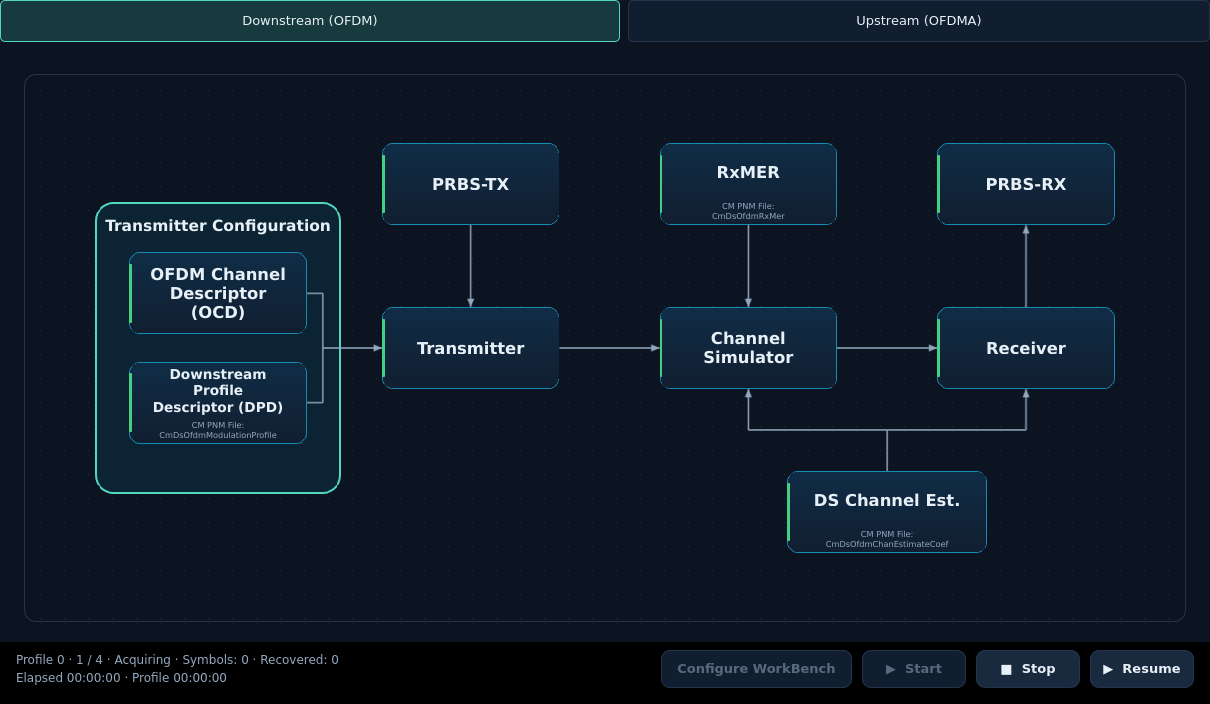
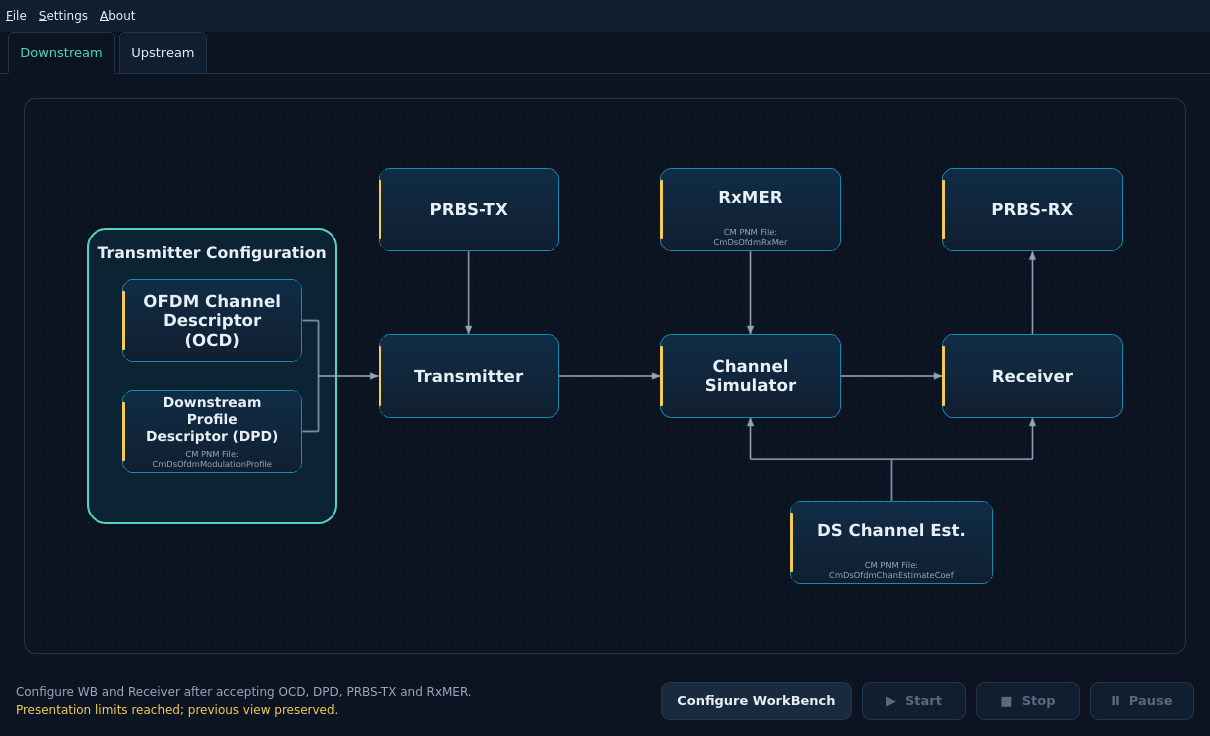
BugFix: Use folder-style direction tabs - Label pages Downstream and Upstream. - Preserve focus, state and connected page edges. - Tests: QML shell, Clippy, native UI and docs.

diff --git a/apps/qt/qml/shell/directions/PersistentDirectionTabs.qml b/apps/qt/qml/shell/directions/PersistentDirectionTabs.qml
@@ -20,6 +20,7 @@ FocusScope {
     readonly property string upstreamDirection: "upstream"
     // Presentation spacing/typography, independent of all scientific limits.
     readonly property int frameSpacing: 8
+    readonly property int tabSpacing: 4
     readonly property int tabPadding: 12
     readonly property int tabHeight: 42
     readonly property int labelPixelSize: 13
@@ -265,62 +266,96 @@ FocusScope {
     ColumnLayout {
         id: content
         anchors.fill: parent
-        spacing: root.frameSpacing
-        RowLayout {
-            id: tabRow
+        spacing: 0
+        Item {
+            id: tabStrip
+            objectName: "directionTabStrip"
             Layout.fillWidth: true
-            spacing: root.frameSpacing
-            Repeater {
-                model: [root.downstreamDirection, root.upstreamDirection]
-                delegate: TabButton {
-                    id: tab
-                    required property string modelData
-                    readonly property bool selected: root.selectedDirection === modelData
-                    objectName: modelData + "DirectionTab"
-                    Layout.fillWidth: true
-                    implicitHeight: Math.max(root.tabHeight,
-                        contentItem.implicitHeight + topPadding + bottomPadding)
-                    leftPadding: root.tabPadding
-                    rightPadding: root.tabPadding
-                    font.pixelSize: root.labelPixelSize
-                    focusPolicy: Qt.StrongFocus
-                    autoExclusive: false
-                    checked: selected
-                    text: modelData === root.downstreamDirection
-                        ? "Downstream (OFDM)" : "Upstream (OFDMA)"
-                    Accessible.name: text
-                    ThemePalette { targetControl: tab; theme: root.theme }
-                    onClicked: {
-                        root.requestDirection(modelData)
-                        // The host may accept asynchronously or decline selection.
-                        checked = Qt.binding(function() { return tab.selected })
-                    }
-                    Keys.onLeftPressed: function(event) {
-                        root.requestDirection(root.downstreamDirection)
-                        event.accepted = true
-                    }
-                    Keys.onRightPressed: function(event) {
-                        root.requestDirection(root.upstreamDirection)
-                        event.accepted = true
-                    }
-                    background: Rectangle {
-                        radius: root.tabCornerRadius
-                        color: tab.selected ? root.theme.accentSoft
-                            : tab.hovered ? root.theme.button : root.theme.panel
-                        border.width: tab.visualFocus
-                            ? root.focusedBorderWidth : root.normalBorderWidth
-                        border.color: tab.visualFocus || tab.selected
-                            ? root.theme.accent : root.theme.line
-                    }
-                    contentItem: Label {
-                        text: tab.text
-                        font: tab.font
-                        color: root.theme.text
-                        wrapMode: Text.WordWrap
-                        horizontalAlignment: Text.AlignHCenter
-                        verticalAlignment: Text.AlignVCenter
+            implicitHeight: tabRow.implicitHeight
+            Rectangle {
+                objectName: "directionTabBaseline"
+                anchors.left: parent.left
+                anchors.right: parent.right
+                anchors.bottom: parent.bottom
+                height: root.normalBorderWidth
+                color: root.theme.line
+            }
+            RowLayout {
+                id: tabRow
+                anchors.fill: parent
+                anchors.leftMargin: root.frameSpacing
+                anchors.rightMargin: root.frameSpacing
+                spacing: root.tabSpacing
+                Repeater {
+                    model: [root.downstreamDirection, root.upstreamDirection]
+                    delegate: TabButton {
+                        id: tab
+                        required property string modelData
+                        readonly property bool selected: root.selectedDirection === modelData
+                        objectName: modelData + "DirectionTab"
+                        Layout.fillWidth: true
+                        Layout.minimumWidth: 0
+                        Layout.maximumWidth: implicitWidth
+
+                        // Prevent whole-pixel layout rounding from clipping fractional font widths.
+                        implicitWidth: Math.ceil(contentItem.implicitWidth) + leftPadding + rightPadding
+                        implicitHeight: Math.max(root.tabHeight,
+                            contentItem.implicitHeight + topPadding + bottomPadding)
+                        leftPadding: root.tabPadding
+                        rightPadding: root.tabPadding
+                        font.pixelSize: root.labelPixelSize
+                        focusPolicy: Qt.StrongFocus
+                        autoExclusive: false
+                        checked: selected
+                        text: modelData === root.downstreamDirection
+                            ? "Downstream" : "Upstream"
+                        Accessible.name: text
+                        ThemePalette { targetControl: tab; theme: root.theme }
+                        onClicked: {
+                            root.requestDirection(modelData)
+                            // The host may accept asynchronously or decline selection.
+                            checked = Qt.binding(function() { return tab.selected })
+                        }
+                        Keys.onLeftPressed: function(event) {
+                            root.requestDirection(root.downstreamDirection)
+                            event.accepted = true
+                        }
+                        Keys.onRightPressed: function(event) {
+                            root.requestDirection(root.upstreamDirection)
+                            event.accepted = true
+                        }
+                        background: Rectangle {
+                            objectName: tab.modelData + "DirectionTabSurface"
+                            topLeftRadius: root.tabCornerRadius
+                            topRightRadius: root.tabCornerRadius
+                            color: tab.selected ? root.theme.background
+                                : tab.hovered ? root.theme.button : root.theme.panel
+                            border.width: tab.visualFocus
+                                ? root.focusedBorderWidth : root.normalBorderWidth
+                            border.color: tab.visualFocus
+                                ? root.theme.accent : root.theme.line
+                            Rectangle {
+                                objectName: tab.modelData + "DirectionTabJoin"
+                                anchors.left: parent.left
+                                anchors.right: parent.right
+                                anchors.bottom: parent.bottom
+                                height: parent.border.width
+                                visible: tab.selected
+                                color: parent.color
+                            }
+                        }
+                        contentItem: Label {
+                            text: tab.text
+                            font: tab.font
+                            color: tab.selected ? root.theme.accent : root.theme.text
+                            wrapMode: Text.NoWrap
+                            elide: Text.ElideRight
+                            horizontalAlignment: Text.AlignHCenter
+                            verticalAlignment: Text.AlignVCenter
+                        }
                     }
                 }
+                Item { Layout.fillWidth: true }
             }
         }
         Label {
@@ -328,6 +363,7 @@ FocusScope {
             Layout.fillWidth: true
             Layout.leftMargin: root.frameSpacing
             Layout.rightMargin: root.frameSpacing
+            Layout.topMargin: root.frameSpacing
             visible: root.otherDirectionActive && text.length > 0
             text: root.executionStatus
             color: root.theme.statusAttention
@@ -339,6 +375,7 @@ FocusScope {
             Layout.fillWidth: true
             Layout.leftMargin: root.frameSpacing
             Layout.rightMargin: root.frameSpacing
+            Layout.topMargin: root.frameSpacing
             visible: text.length > 0
             text: root.feedbackMessage
             color: root.feedbackIsError ? root.theme.statusError : root.theme.muted

diff --git a/apps/qt/tests/shell/tst_direction_tabs.qml b/apps/qt/tests/shell/tst_direction_tabs.qml
@@ -362,6 +362,30 @@ Item {
                     const rendered = grabImage(shell)
                     const sample = downstream.mapToItem(shell, 2, 2)
                     compare(rendered.pixel(Math.round(sample.x), Math.round(sample.y)), testTheme.panel)
+                    const downstreamTab = findChild(shell, "downstreamDirectionTab")
+                    const upstreamTab = findChild(shell, "upstreamDirectionTab")
+                    verify(downstreamTab.width + upstreamTab.width < shell.width)
+                    for (const direction of ["downstream", "upstream"]) {
+                        selectWithPointer(shell, direction)
+                        const selectedTab = findChild(shell, direction + "DirectionTab")
+                        const inactiveTab = direction === "downstream" ? upstreamTab : downstreamTab
+                        compare(selectedTab.contentItem.lineCount, 1)
+                        verify(!selectedTab.contentItem.truncated,
+                            direction + " label clipped at viewport " + width
+                            + ": tab=" + selectedTab.width
+                            + ", text=" + selectedTab.contentItem.implicitWidth)
+                        const image = grabImage(shell)
+
+                        // Sample the shared edge inside and outside the selected folder.
+                        const joined = selectedTab.mapToItem(shell,
+                            selectedTab.width / 2, selectedTab.height - shell.normalBorderWidth)
+                        const separated = inactiveTab.mapToItem(shell,
+                            inactiveTab.width / 2, inactiveTab.height - shell.normalBorderWidth)
+                        compare(image.pixel(Math.floor(joined.x), Math.floor(joined.y)),
+                            testTheme.background)
+                        compare(image.pixel(Math.floor(separated.x), Math.floor(separated.y)),
+                            testTheme.line)
+                    }
                     if (width === window.narrowWidth) {
                         grabImage(shell).save("tabs-"
                             + (dark ? "dark" : "light") + "-narrow.png")

diff --git a/docs/requirements.md b/docs/requirements.md
@@ -2342,7 +2342,7 @@ Acceptance cells are required tests, not reports of execution. See the
 | <a id="req-uiu-02"></a>**REQ-UIU-02**: All Qt scientific operations SHALL use typed validated public operations through the merlin facade; independently validate and commit each missing API extension before its Qt consumer. | [Architecture](architecture.md#unified-qt-public-api-boundary); Facade, both PHY API modules, native input adapter and Qt dependencies. [File/API map](development/features/unified-qt-workbench/api-gap-matrix.md). | [UIU-BOUND-01](development/checklist.md#task-uiu-bound-01), [UIU-API-01](development/checklist.md#task-uiu-api-01), [UIU-API-02](development/checklist.md#task-uiu-api-02), [UIU-API-03](development/checklist.md#task-uiu-api-03), [UIU-API-04](development/checklist.md#task-uiu-api-04), [UIU-API-05](development/checklist.md#task-uiu-api-05), [UIU-DS-01](development/checklist.md#task-uiu-ds-01); [UIU-QA-01](development/checklist.md#task-uiu-qa-01). | Cargo/source boundary checks including aliases; no final legacy scientific entries; API and compatibility evidence. [Controlled worker evidence](development/features/unified-qt-workbench/validation.md#uiu-ds-01-controlled-worker-facade-accepted). [Receiver/dependency exit evidence](development/features/unified-qt-workbench/validation.md#uiu-ds-01-receiver-public-api-and-dependency-exit). |
 | <a id="req-uiu-03"></a>**REQ-UIU-03**: Keep direction-specific QObject/adapters thin; backend owns scientific configuration, admission, execution and results; no duplicate Qt science interface. | [Architecture](architecture.md#unified-qt-public-api-boundary); Qt bridge plus proposed direction adapters; existing backend owners. [File/API map](development/features/unified-qt-workbench/api-gap-matrix.md). | [UIU-BOUND-01](development/checklist.md#task-uiu-bound-01), [UIU-DS-01](development/checklist.md#task-uiu-ds-01), [UIU-SESSION-01](development/checklist.md#task-uiu-session-01), [UIU-US-02](development/checklist.md#task-uiu-us-02); [UIU-QA-01](development/checklist.md#task-uiu-qa-01). | Review call/data ownership and test request/error/progress/result mapping without private engine access. [Explicit session ownership design](development/features/unified-qt-workbench/design.md#uiu-session-01-explicit-ownership-foundation); [explicit context consumer evidence](development/features/unified-qt-workbench/validation.md#uiu-session-01-explicit-downstream-context-migration); [actual upstream controller evidence](development/features/unified-qt-workbench/validation.md#uiu-session-01-actual-upstream-controller-preparation). [Upstream QObject consumer evidence](development/features/unified-qt-workbench/validation.md#uiu-session-01-upstream-qobject-and-background-preparation). [Integrated SESSION acceptance](development/features/unified-qt-workbench/validation.md#uiu-session-01-integrated-acceptance). |
 | <a id="req-uiu-04"></a>**REQ-UIU-04**: Retain one native executable/QML module and bridge-directory constraint; migrate files by responsibility with explicit registration and preserved notices. | [Architecture](architecture.md#unified-qt-source-ownership); apps/qt/build.rs, src/bridge, QML/module/resource paths. [File/API map](development/features/unified-qt-workbench/api-gap-matrix.md). | [UIU-PLAN-01](development/checklist.md#task-uiu-plan-01), [UIU-ORG-01](development/checklist.md#task-uiu-org-01), [UIU-DS-01](development/checklist.md#task-uiu-ds-01); [UIU-QA-01](development/checklist.md#task-uiu-qa-01). | All sources registered once, imports/resources resolve, native launch and Qt regressions pass. |
-| <a id="req-uiu-05"></a>**REQ-UIU-05**: Provide persistent Downstream (OFDM) and Upstream (OFDMA) tabs below the shared menu; retain File/Settings/About/update actions and remove the large internal canvas title. | [Architecture](architecture.md#unified-qt-session-and-file-lifecycle); Shared shell and persistent direction workbenches. [File/API map](development/features/unified-qt-workbench/api-gap-matrix.md). | [UIU-SHELL-01](development/checklist.md#task-uiu-shell-01); [UIU-QA-01](development/checklist.md#task-uiu-qa-01). | Tab/menu/focus/branding layout checks; application branding and existing downstream actions retained. [SHELL consumer acceptance](development/features/unified-qt-workbench/validation.md#uiu-shell-01-persistent-tabs-and-scoped-actions). |
+| <a id="req-uiu-05"></a>**REQ-UIU-05**: Provide persistent Downstream and Upstream folder-style tabs below the shared menu, sized to their labels with a shared baseline and the selected tab visually joined to its page; retain File/Settings/About/update actions and remove the large internal canvas title. | [Architecture](architecture.md#unified-qt-session-and-file-lifecycle); Shared shell and persistent direction workbenches. [File/API map](development/features/unified-qt-workbench/api-gap-matrix.md). | [UIU-SHELL-01](development/checklist.md#task-uiu-shell-01); [UIU-QA-01](development/checklist.md#task-uiu-qa-01); [UI-TABS-01](development/checklist.md#task-ui-tabs-01). | Tab/menu/focus/branding layout checks; application branding and existing downstream actions retained. [SHELL consumer acceptance](development/features/unified-qt-workbench/validation.md#uiu-shell-01-persistent-tabs-and-scoped-actions). [Folder-tab refinement](development/features/unified-qt-workbench/design.md#ui-tabs-01-folder-style-direction-tabs) requires rendered shape/seam checks in both themes and narrow layouts. |
 | <a id="req-uiu-06"></a>**REQ-UIU-06**: Each direction SHALL retain independent session/configuration/input/result/selection/path/dirty state. Initially admit one active run globally, including paused runs; switching tabs preserves work. | [Architecture](architecture.md#unified-qt-session-and-file-lifecycle); Canonical direction sessions and shared dispatch admission. [File/API map](development/features/unified-qt-workbench/api-gap-matrix.md). | [UIU-SESSION-01](development/checklist.md#task-uiu-session-01), [UIU-SHELL-01](development/checklist.md#task-uiu-shell-01); [UIU-QA-01](development/checklist.md#task-uiu-qa-01). | Two populated tabs, rejected second Start, stale callback/generation isolation, controls scoped to selected session; later concurrent scheduling needs aggregate limits. [Explicit session ownership design](development/features/unified-qt-workbench/design.md#uiu-session-01-explicit-ownership-foundation); [explicit context consumer evidence](development/features/unified-qt-workbench/validation.md#uiu-session-01-explicit-downstream-context-migration); [actual upstream controller evidence](development/features/unified-qt-workbench/validation.md#uiu-session-01-actual-upstream-controller-preparation). [Upstream QObject consumer evidence](development/features/unified-qt-workbench/validation.md#uiu-session-01-upstream-qobject-and-background-preparation). [Integrated SESSION acceptance](development/features/unified-qt-workbench/validation.md#uiu-session-01-integrated-acceptance). [SHELL consumer acceptance](development/features/unified-qt-workbench/validation.md#uiu-shell-01-persistent-tabs-and-scoped-actions). |
 | <a id="req-uiu-07"></a>**REQ-UIU-07**: Run without blocking Qt; preserve direction-specific pause/progress/cancel/partial-result semantics and finite execution/retention/aggregate resource bounds. Aggregate retention SHALL independently bound payload bytes (including requested capacity and cached/shared data), ordered-container entries and shared allocation roots before production/copy; bytes explicitly exclude allocator/tree-node/refcount bookkeeping and are not total heap or RSS. Simultaneous retained copy source/target and candidate owners SHALL remain charged; temporary backend construction and numerical scratch SHALL have separate finite execution limits, without an aggregate scratch-byte/RSS claim. Persistent QML SHALL bound logical UTF-16 bytes, array/object entries and open/retained views while Rust retains actual-capacity accounting. Standard channels SHALL charge message data and explicit channel/slot counts, excluding private synchronization bookkeeping. | [Architecture](architecture.md#unified-qt-session-and-file-lifecycle); DS/US public job APIs and direction worker adapters. [File/API map](development/features/unified-qt-workbench/api-gap-matrix.md). [Typed progress-phase contract](development/features/unified-qt-workbench/design.md#uiu-ds-01-public-progress-phase-prerequisite). [Worker runtime/notification-age contract](development/features/unified-qt-workbench/design.md#uiu-ds-01-worker-budget-and-progress-age-prerequisite). | [UIU-API-02](development/checklist.md#task-uiu-api-02), [UIU-SESSION-01](development/checklist.md#task-uiu-session-01), [UIU-SHELL-01](development/checklist.md#task-uiu-shell-01), [UIU-US-02](development/checklist.md#task-uiu-us-02); [UIU-QA-01](development/checklist.md#task-uiu-qa-01); [UIU-DS-01](development/checklist.md#task-uiu-ds-01). | Responsive UI, lifecycle transitions, cancellation and completed-trial retention, error cleanup, bounded retention and safe destruction. [Approved retention contract](development/features/unified-qt-workbench/retention-contract-decision.md); [Approved presentation/channel boundary](development/features/unified-qt-workbench/retention-contract-decision.md#approved-presentation-and-channel-boundaries); [Frozen SESSION closure](development/features/unified-qt-workbench/session-closure.md); [Public root metadata design](development/features/unified-qt-workbench/design.md#uiu-session-01-public-retained-root-metadata-prerequisite); [Explicit session ownership design](development/features/unified-qt-workbench/design.md#uiu-session-01-explicit-ownership-foundation); [explicit context consumer evidence](development/features/unified-qt-workbench/validation.md#uiu-session-01-explicit-downstream-context-migration); [actual upstream controller evidence](development/features/unified-qt-workbench/validation.md#uiu-session-01-actual-upstream-controller-preparation). [Session-output preflight acceptance](development/features/unified-qt-workbench/validation.md#uiu-session-01-pre-production-session-output-bounds). [Upstream QObject consumer evidence](development/features/unified-qt-workbench/validation.md#uiu-session-01-upstream-qobject-and-background-preparation). [Existing query-copy envelope evidence](development/features/unified-qt-workbench/validation.md#uiu-session-01-existing-observation-query-copy-envelope). [Downstream backend-result target evidence](development/features/unified-qt-workbench/validation.md#uiu-session-01-downstream-backend-result-target-admission). [Execution-request owner evidence](development/features/unified-qt-workbench/validation.md#uiu-session-01-per-profile-execution-request-admission). [Stored observation/capture evidence](development/features/unified-qt-workbench/validation.md#uiu-session-01-stored-observation-and-capture-admission). [Idle transmitter-preview evidence](development/features/unified-qt-workbench/validation.md#uiu-session-01-idle-transmitter-preview-owner-admission). [Detached receiver-history evidence](development/features/unified-qt-workbench/validation.md#uiu-session-01-detached-receiver-history-admission). [Stored performance evidence](development/features/unified-qt-workbench/validation.md#uiu-session-01-copied-receiver-performance-admission).  [Scientific control metadata prerequisite](development/features/unified-qt-workbench/design.md#uiu-session-01-scientific-control-allocation-metadata-prerequisite) retains existing IDs, public API ownership and required installed-native parity before Qt adoption. [Persistent presentation owner/acceptance](development/features/unified-qt-workbench/validation.md#uiu-session-01-persistent-presentation-admission). [Integrated SESSION acceptance](development/features/unified-qt-workbench/validation.md#uiu-session-01-integrated-acceptance). [SHELL consumer acceptance](development/features/unified-qt-workbench/validation.md#uiu-shell-01-persistent-tabs-and-scoped-actions). |
 | <a id="req-uiu-08"></a>**REQ-UIU-08**: Preserve existing downstream editors, readiness, runs, instruments, measurement workflows, project behavior and native actions during additive migration. | [Architecture](architecture.md#unified-qt-source-ownership); Existing downstream QML, input/instrument/worker providers. [File/API map](development/features/unified-qt-workbench/api-gap-matrix.md). | [UIU-BASE-01](development/checklist.md#task-uiu-base-01), [UIU-DS-01](development/checklist.md#task-uiu-ds-01), [UIU-SHELL-01](development/checklist.md#task-uiu-shell-01); [UIU-QA-01](development/checklist.md#task-uiu-qa-01). | Fresh baseline plus existing Qt/API/scientific regression comparisons, current examples and native downstream run. [RxMER animation preview evidence](development/features/unified-qt-workbench/validation.md#uiu-ds-01-rxmer-animation-preview-facade-accepted). [Profile plot facade evidence](development/features/unified-qt-workbench/validation.md#uiu-ds-01-profile-plot-inspection-facade-accepted). [Source editor facade evidence](development/features/unified-qt-workbench/validation.md#uiu-ds-01-source-editor-admission-facade-accepted). [SHELL consumer acceptance](development/features/unified-qt-workbench/validation.md#uiu-shell-01-persistent-tabs-and-scoped-actions). |
@@ -2362,6 +2362,6 @@ Acceptance cells are required tests, not reports of execution. See the
 | <a id="req-uiu-22"></a>**REQ-UIU-22**: Save the active direction project; direction-aware Open guards the target tab and preserves both states on failure. Legacy schema 1/2 stay downstream; new version explicitly tags direction. | [Architecture](architecture.md#unified-qt-session-and-file-lifecycle); Native `crates/pnm-input/src/project` owner through `merlin::common::Project`, paired native Python, and Qt chooser/write/dirty-state adapter. [Public project contract](user/api/projects.md). [File/API map](development/features/unified-qt-workbench/api-gap-matrix.md). [Exact schema/owner contract](development/features/unified-qt-workbench/design.md#uiu-api-05-direction-aware-public-project-admission). | [UIU-API-01](development/checklist.md#task-uiu-api-01), [UIU-API-05](development/checklist.md#task-uiu-api-05), [UIU-FILE-01](development/checklist.md#task-uiu-file-01); [UIU-QA-01](development/checklist.md#task-uiu-qa-01); [UIU-DS-01](development/checklist.md#task-uiu-ds-01). | Old examples, schema round trips/malformed/wrong-direction/bounds/hash errors, cancelled Open/Save and two-tab dirty guards. [Legacy source export evidence](development/features/unified-qt-workbench/validation.md#uiu-ds-01-source-editor-admission-facade-accepted); direction-aware UI Save/Open remains UIU-FILE-01 acceptance. [Native file design](development/features/unified-qt-workbench/design.md#uiu-file-01-direction-projects-and-guarded-native-file-operations). [Edited-configuration provenance](development/features/unified-qt-workbench/design.md#uiu-file-01-edited-configuration-provenance-prerequisite). |
 | <a id="req-uiu-23"></a>**REQ-UIU-23**: Updater/restart recovery SHALL preserve both independently valid projects and presentation state without changing normal per-direction Save semantics. | [Architecture](architecture.md#unified-qt-session-and-file-lifecycle); Platform updater, Qt-private `shared/update_recovery.rs` transport, native preparation and guarded `shell/recovery.rs` pair publication. [Recovery design](development/features/unified-qt-workbench/design.md#uiu-recovery-01-dual-project-restart-transaction). [File/API map](development/features/unified-qt-workbench/api-gap-matrix.md). | [UIU-API-05](development/checklist.md#task-uiu-api-05), [UIU-RECOVERY-01](development/checklist.md#task-uiu-recovery-01); [UIU-QA-01](development/checklist.md#task-uiu-qa-01). | Both-tab restore, rejected/truncated bundle, failure retention and source-checkout no-elevation guards; installed lifecycle claims require actual evidence. [Native recovery acceptance](development/features/unified-qt-workbench/validation.md#uiu-recovery-01-dual-project-restart-acceptance) preserves separate destinations/dirty flags and original protections, including a changed restart directory. |
 | <a id="req-uiu-24"></a>**REQ-UIU-24**: Preserve accepted Rust and Python imports/behavior. New shared capabilities and saved projects SHALL land in Rust first with matching native Python semantics in one installed distribution. | [Architecture](architecture.md#unified-qt-public-api-boundary); Both public APIs, facade, bindings/python and native project adapter. [File/API map](development/features/unified-qt-workbench/api-gap-matrix.md). | [UIU-BOUND-01](development/checklist.md#task-uiu-bound-01), [UIU-API-01](development/checklist.md#task-uiu-api-01), [UIU-API-02](development/checklist.md#task-uiu-api-02), [UIU-API-03](development/checklist.md#task-uiu-api-03), [UIU-API-04](development/checklist.md#task-uiu-api-04), [UIU-API-05](development/checklist.md#task-uiu-api-05), [UIU-FILE-01](development/checklist.md#task-uiu-file-01); [UIU-QA-01](development/checklist.md#task-uiu-qa-01); [UIU-DS-01](development/checklist.md#task-uiu-ds-01). | Installed-wheel namespace/operation/project tests; old merlin.Simulation and docsis_ofdm_fec::api imports; independent PHY feature checks. [Receiver/dependency exit evidence](development/features/unified-qt-workbench/validation.md#uiu-ds-01-receiver-public-api-and-dependency-exit). [Native file design](development/features/unified-qt-workbench/design.md#uiu-file-01-direction-projects-and-guarded-native-file-operations). [Edited-configuration provenance](development/features/unified-qt-workbench/design.md#uiu-file-01-edited-configuration-provenance-prerequisite). [Final unified acceptance](development/features/unified-qt-workbench/validation.md#uiu-qa-01-final-unified-acceptance). |
-| <a id="req-uiu-25"></a>**REQ-UIU-25**: Preserve interactive workbench conventions, persistent lower-right run controls, accessible focus/status/theme behavior and native target contracts. | [Architecture](architecture.md#unified-qt-source-ownership); Qt shell/theme/dialogs, platform and package registrations. [File/API map](development/features/unified-qt-workbench/api-gap-matrix.md). | [UIU-BASE-01](development/checklist.md#task-uiu-base-01), [UIU-ORG-01](development/checklist.md#task-uiu-org-01), [UIU-SHELL-01](development/checklist.md#task-uiu-shell-01); [UIU-QA-01](development/checklist.md#task-uiu-qa-01); [UIU-DS-01](development/checklist.md#task-uiu-ds-01). | Light/dark, keyboard/focus/dialog/run-control checks, native build/launch and accurate Ubuntu/Windows evidence boundaries. [SHELL consumer acceptance](development/features/unified-qt-workbench/validation.md#uiu-shell-01-persistent-tabs-and-scoped-actions). |
+| <a id="req-uiu-25"></a>**REQ-UIU-25**: Preserve interactive workbench conventions, persistent lower-right run controls, accessible focus/status/theme behavior and native target contracts. | [Architecture](architecture.md#unified-qt-source-ownership); Qt shell/theme/dialogs, platform and package registrations. [File/API map](development/features/unified-qt-workbench/api-gap-matrix.md). | [UIU-BASE-01](development/checklist.md#task-uiu-base-01), [UIU-ORG-01](development/checklist.md#task-uiu-org-01), [UIU-SHELL-01](development/checklist.md#task-uiu-shell-01); [UIU-QA-01](development/checklist.md#task-uiu-qa-01); [UIU-DS-01](development/checklist.md#task-uiu-ds-01); [UI-TABS-01](development/checklist.md#task-ui-tabs-01). | Light/dark, keyboard/focus/dialog/run-control checks, native build/launch and accurate Ubuntu/Windows evidence boundaries. [SHELL consumer acceptance](development/features/unified-qt-workbench/validation.md#uiu-shell-01-persistent-tabs-and-scoped-actions). |
 | <a id="req-uiu-26"></a>**REQ-UIU-26**: Keep canonical architecture/requirements/task traceability and exact per-unit evidence; all accepted UI tasks require MERLIN tests and final owner/link/report reconciliation. | [Architecture](architecture.md#unified-qt-acceptance); Canonical docs, feature records, affected tests/skills/guides. [File/API map](development/features/unified-qt-workbench/api-gap-matrix.md). | [UIU-PLAN-01](development/checklist.md#task-uiu-plan-01); [UIU-QA-01](development/checklist.md#task-uiu-qa-01). | Stable bidirectional IDs, DAG, resolved links, exact candidate/source/test/results, final build and focused commit log; no source-only acceptance. [Three-level validation scheduling](development/features/unified-qt-workbench/testing-strategy.md) preserves these gates and records executed/not-required/deferred scope. [Final unified acceptance](development/features/unified-qt-workbench/validation.md#uiu-qa-01-final-unified-acceptance). |
 | <a id="req-uiu-27"></a>**REQ-UIU-27**: Stay within this UI phase: preserve accepted science/modes/normative references, no Qt science or wider PHY restart, pushes/releases/system installs without authorization. | [Architecture](architecture.md#unified-qt-acceptance); All UI/API migration units and their support declarations. [File/API map](development/features/unified-qt-workbench/api-gap-matrix.md). | [UIU-PLAN-01](development/checklist.md#task-uiu-plan-01), [UIU-US-01](development/checklist.md#task-uiu-us-01), [UIU-US-02](development/checklist.md#task-uiu-us-02); [UIU-QA-01](development/checklist.md#task-uiu-qa-01); [UIU-DS-01](development/checklist.md#task-uiu-ds-01). | Scope/owner review, unchanged scientific fixtures, stable-profile resource watches excluding empty/output paths, and final line-by-line numeric review with centralized common definitions and documented independent policies/anchors; explicitly report unavailable modes, native/hosted/installed limitations and deferrals. [Receiver/dependency exit evidence](development/features/unified-qt-workbench/validation.md#uiu-ds-01-receiver-public-api-and-dependency-exit). [Final unified acceptance](development/features/unified-qt-workbench/validation.md#uiu-qa-01-final-unified-acceptance). |

diff --git a/docs/development/features/unified-qt-workbench/design.md b/docs/development/features/unified-qt-workbench/design.md
@@ -5826,3 +5826,59 @@ preserved. Native/hosted/installed platform limitations remain explicit.
 The [final acceptance](validation.md#uiu-qa-01-final-unified-acceptance) closes
 UIU-QA-01 after all runtime gates and source reviews pass. No scientific scope,
 public behavior, task dependency or historical completion state is changed.
+
+### UI-TABS-01 folder-style direction tabs
+
+The user requested folder tabs rather than detached tab buttons, as recorded in
+the [UI skill](../../../../skills/ui-design/SKILL.md#folder-style-page-tabs).
+This refines [REQ-UIU-05](../../../requirements.md#req-uiu-05) and
+[REQ-UIU-25](../../../requirements.md#req-uiu-25); the
+[official task](../../checklist.md#task-ui-tabs-01) preserves historical UIU acceptance.
+
+| Owner | Existing contract | Decision |
+| --- | --- | --- |
+| `apps/qt/qml/shell/directions/PersistentDirectionTabs.qml` | Two persistent Loaders, Rust-owned selection, scoped intents and restored focus. | ADAPT only tab sizing, shape and shared content edge. Reuse TabButton accessibility/interaction, named layout constants and shared theme colors. |
+| `apps/qt/tests/shell/tst_direction_tabs.qml` | Actual pointer/keyboard, declined selection, both themes, resize and persistent-child checks. | REUSE the complete suite; extend rendered seam/geometry and full single-line label checks across both selections and themes. |
+| `apps/qt/qml/Main.qml` | Native shared shell, two direction adapters and project startup. | REUSE unchanged; capture the actual owned VM window and switch tabs with real pointer events. No new runtime probe or registration. |
+
+Tabs are labelled Downstream and Upstream without OFDM/OFDMA suffixes. They
+occupy their label widths and share a baseline immediately above the page.
+Only upper corners are rounded. The selected tab uses the canvas surface and
+covers its bottom seam; inactive tabs remain visually recessed. Existing accepted
+selection, focus, running/paused ownership, identities and persistent pages stay
+with their current owners. No backend, schema, registration or public API changes.
+
+Validation is scoped to this presentation refinement: complete direction-shell
+QML tests, applicable formatting/Clippy/boundary and documentation checks, retained-
+artifact optimized Qt build and actual VM rendering. Root science/Python/CLI and
+packaging regressions are not required because their inputs/contracts are unchanged.
+
+Executed validation (2026-11-25):
+
+- Complete `apps/qt/tests/shell/` QML suite: 60 pass records, no failures or
+  skips. Both selections and themes at wide/narrow widths retain live children,
+  pointer/keyboard behavior, focus and the correct selected/inactive bottom edge.
+- Qt Cargo formatting and all-target Clippy with `-D warnings` pass. Subsequent
+  QML-only label corrections preserve those Rust inputs. The final API boundary
+  has zero scientific dependencies and zero legacy exceptions.
+- `scripts/qt-desktop.sh build` passes for the final optimized executable.
+  Actual owned VM-window captures and real pointer selection verify both tabs;
+  the dark workbench guide and README images are refreshed from unaltered pixels.
+- Current feature-documentation, integration-traceability, skill validation,
+  Python-guide consistency and diff whitespace checks pass.
+
+The native review found a wrapped label caused by fractional text widths being
+rounded down during layout. A no-wrap check initially failed (59 pass records,
+one clipping failure); rounding the natural text width upward resolves it, and
+the final complete shell run passes. The user's final labels are Downstream and
+Upstream without suffixes. Two existing `activeFocusOnTab` warnings occur in the
+unchanged host-help test. The downstream native capture displays the standard
+presentation-limit notice; this unit establishes tab appearance/switching and
+does not establish that notice's cause or new scientific acceptance.
+
+Logs, initial/final native evidence and the exact executable/source hashes stay
+under ignored `docs/development/local/unified-qt-workbench/folder-tabs/`.
+Full root Rust, Python wheels, CLI, Qt Rust runtime and packaging suites were not
+rerun: their implementations, APIs, dependencies, registration and saved-data
+contracts are unchanged. Earlier UIU acceptance remains historical evidence for
+its recorded candidate; installed/hosted platform gates remain separate.

diff --git a/docs/development/checklist.md b/docs/development/checklist.md
@@ -707,6 +707,16 @@ The strategy's risk expansion applies to every level; preserve all criteria belo
   Acceptance: Both actual direction runs, independent API/wheel/CLI regressions as affected, zero scientific boundary entries, complete inventory disposition/licensing, Qt/native build/launch, scientific presentation and persistence checks, final guides/skills/links/evidence and focused commit report. Record every remaining platform/mode limitation. Complete a line-by-line numeric audit of the integration changes across production code, defaults, examples and tests; centralize genuinely shared definitions in common constants owners, name independent policies separately and document retained mathematical/specification/test anchors. Link the reviewed file inventory and acceptance evidence before checking this task.
   Evidence: [final runtime and correspondence record](features/unified-qt-workbench/validation.md#uiu-qa-01-final-unified-acceptance), [all-task commit/validation report](features/unified-qt-workbench/completion-report.md), [reviewed numeric scope](features/unified-qt-workbench/final-numeric-review.json) and [final source destinations](features/unified-qt-workbench/final-source-inventory.json). Level 3 runtime, source/constant/licensing review and preliminary documentation checks pass; the final state audit records the 21-task closeout. Native/hosted/installed platform limitations remain explicit.
 
+## Unified Qt presentation refinements
+
+<a id="task-ui-tabs-01"></a>
+- [x] **UI-TABS-01** Present direction pages as connected folder-style tabs.
+  Requirements: [REQ-UIU-05](../requirements.md#req-uiu-05), [REQ-UIU-25](../requirements.md#req-uiu-25).
+  Dependencies: [UIU-SHELL-01](#task-uiu-shell-01).
+  Architecture/files: [shared shell](../architecture.md#unified-qt-session-and-file-lifecycle); [design and owner map](features/unified-qt-workbench/design.md#ui-tabs-01-folder-style-direction-tabs).
+  Acceptance: Content-sized tabs, rounded top corners, shared baseline and selected-page connection in both themes and narrow layouts; preserve pointer/keyboard switching, focus and persistent children. Run affected QML tests, native build/visual checks and documentation traceability; update the dark user-guide image.
+  Evidence: [executed validation](features/unified-qt-workbench/design.md#ui-tabs-01-folder-style-direction-tabs) records 60 passing shell QML checks, Qt formatting/Clippy, final API boundary and documentation checks, optimized native build and real VM pointer switching. Updated dark guides/README show the simple Downstream/Upstream labels. Historical UIU task states remain unchanged.
+
 ## Architecture and module rules
 
 <a id="task-arch-01"></a>

diff --git a/docs/user/workbench.md b/docs/user/workbench.md
@@ -55,12 +55,13 @@ Cancel or X discards it. Close dismisses a viewer. Tabs, diagram symbols and
 capture-tree arrows retain their own shapes. See
 [workbench configuration](workbench-configuration.md) for the shared controls.
 
-The native Qt workbench has persistent **Downstream (OFDM)** and
-**Upstream (OFDMA)** tabs below the shared menus. Switching tabs preserves each
-direction's work. One simulation can run at a time; a paused run still owns that
-slot. The lower-right controls always address the selected direction. To stop or
-resume a downstream run while viewing Upstream, return to Downstream. The other
-tab displays which direction is active.
+The native Qt workbench has persistent **Downstream** and **Upstream**
+folder-style tabs below the shared menus. The tabs fit their labels and share an
+edge with the canvas; the selected tab joins its page.
+Switching tabs preserves each direction's work. One simulation can run at a time;
+a paused run still owns that slot. The lower-right controls always address the
+selected direction. To stop or resume a downstream run while viewing Upstream,
+return to Downstream. The other tab displays which direction is active.
 
 Downstream opens the existing single-channel system diagram. Click
 OFDM Channel Descriptor (OCD), PRBS-TX, Transmitter, Channel Simulator, Receiver, PRBS-RX or one
@@ -77,7 +78,7 @@ diagram uses the available space. Shared File, Settings, About and update action
 remain above the tabs. PRBS-RX opens a structured
 [comparison summary with payload graphs](closed-loop-workbench.md#inspect-actual-results).
 
-![Downstream tab with its original simulation paused](../images/workbench/unified-downstream-dark.png)
+![Downstream workbench with its selected folder tab](../images/workbench/unified-downstream-dark.png)
 
 The Upstream tab shows the approved CM transmitter → channel → CMTS receiver
 layout. Its [configuration editors](upstream-workbench.md) load a native upstream
@@ -90,7 +91,7 @@ is shown as unavailable. File actions are currently enabled on Downstream only;
 selecting Upstream cannot save or replace the downstream project. Settings and
 About remain available from either tab.
 
-![Upstream tab while the downstream simulation remains paused](../images/workbench/unified-upstream-dark.png)
+![Upstream workbench with its selected folder tab](../images/workbench/unified-upstream-dark.png)
 
 The revised diagram groups **OCD** and **DPD** inside **Transmitter Configuration**
 at the left. Click either card to open its own editor. Their shared connector

diff --git a/docs/architecture.md b/docs/architecture.md
@@ -1990,7 +1990,12 @@ source comparison and downstream isolation. Measured-input import and scientific
 instruments keep separate gates.
 
 The shared shell uses `qml/shell/directions/PersistentDirectionTabs.qml` with
-two persistent Loaders. Main polls both real adapters regardless of selected tab.
+two persistent Loaders. Direction navigation uses content-sized folder tabs
+labelled Downstream and Upstream on a shared content edge; the selected tab
+joins the canvas without a bottom seam.
+[UI-TABS-01](development/checklist.md#task-ui-tabs-01) owns this presentation
+refinement and its [design](development/features/unified-qt-workbench/design.md#ui-tabs-01-folder-style-direction-tabs).
+Main polls both real adapters regardless of selected tab.
 The thin `bridge/direction_shell.rs` projects canonical scalar keys, dirty flags,
 selection and dispatch phase through `shell/presentation.rs`; opaque identity
 text preserves native integers without JavaScript numeric conversion. Selection

diff --git a/skills/ui-design/SKILL.md b/skills/ui-design/SKILL.md
@@ -48,9 +48,10 @@ migration; update the relevant user guides.
 
 ## Folder-style page tabs
 
-Page navigation, including **Downstream (OFDM)** and **Upstream (OFDMA)**, uses
-folder-style tabs. Give each tab rounded upper corners and a shared baseline
-at the top of its content panel. The selected tab must visually join the panel,
+Page navigation uses folder-style tabs. Label the direction tabs **Downstream**
+and **Upstream**, without OFDM/OFDMA suffixes. Give each tab rounded upper
+corners and a shared baseline at the top of its content panel. The selected tab
+must visually join the panel,
 with a continuous surface and no separating bottom border; inactive tabs recede
 behind that edge. Do not render page tabs as detached action buttons, pills or
 segmented buttons, or apply `WorkbenchActionButton` styling to them.

diff --git a/docs/development/ui-checklist.md b/docs/development/ui-checklist.md
@@ -18,6 +18,10 @@ requirement/architecture links and dependency edges rather than duplicating
 completion marks here. Existing UI-01 through UI-04 and UI-ORG history below
 retain their original status owners and evidence.
 
+The folder-style direction-tab refinement is tracked by
+[UI-TABS-01](checklist.md#task-ui-tabs-01), with the existing shell/session
+behavior preserved; its official completion mark remains in that checklist.
+
 The [downstream contract register](../requirements.md#detailed-downstream-contract-register)
 adds requirement/task/evidence navigation without changing these detail marks.
 Historical shell proposals and validation paragraphs describe their own milestone;

diff --git a/docs/user/upstream-workbench.md b/docs/user/upstream-workbench.md
@@ -1,6 +1,6 @@
 # Upstream OFDMA workbench
 
-Select **Upstream (OFDMA)** to use the CM transmitter → Channel Simulator →
+Select **Upstream** to use the CM transmitter → Channel Simulator →
 CMTS receiver diagram. The separate CMTS Configuration group supplies control
 information; it is not the source of upstream payload samples. Click a block,
 or focus it and press Enter or Space, to open its window. Escape, Cancel and X
